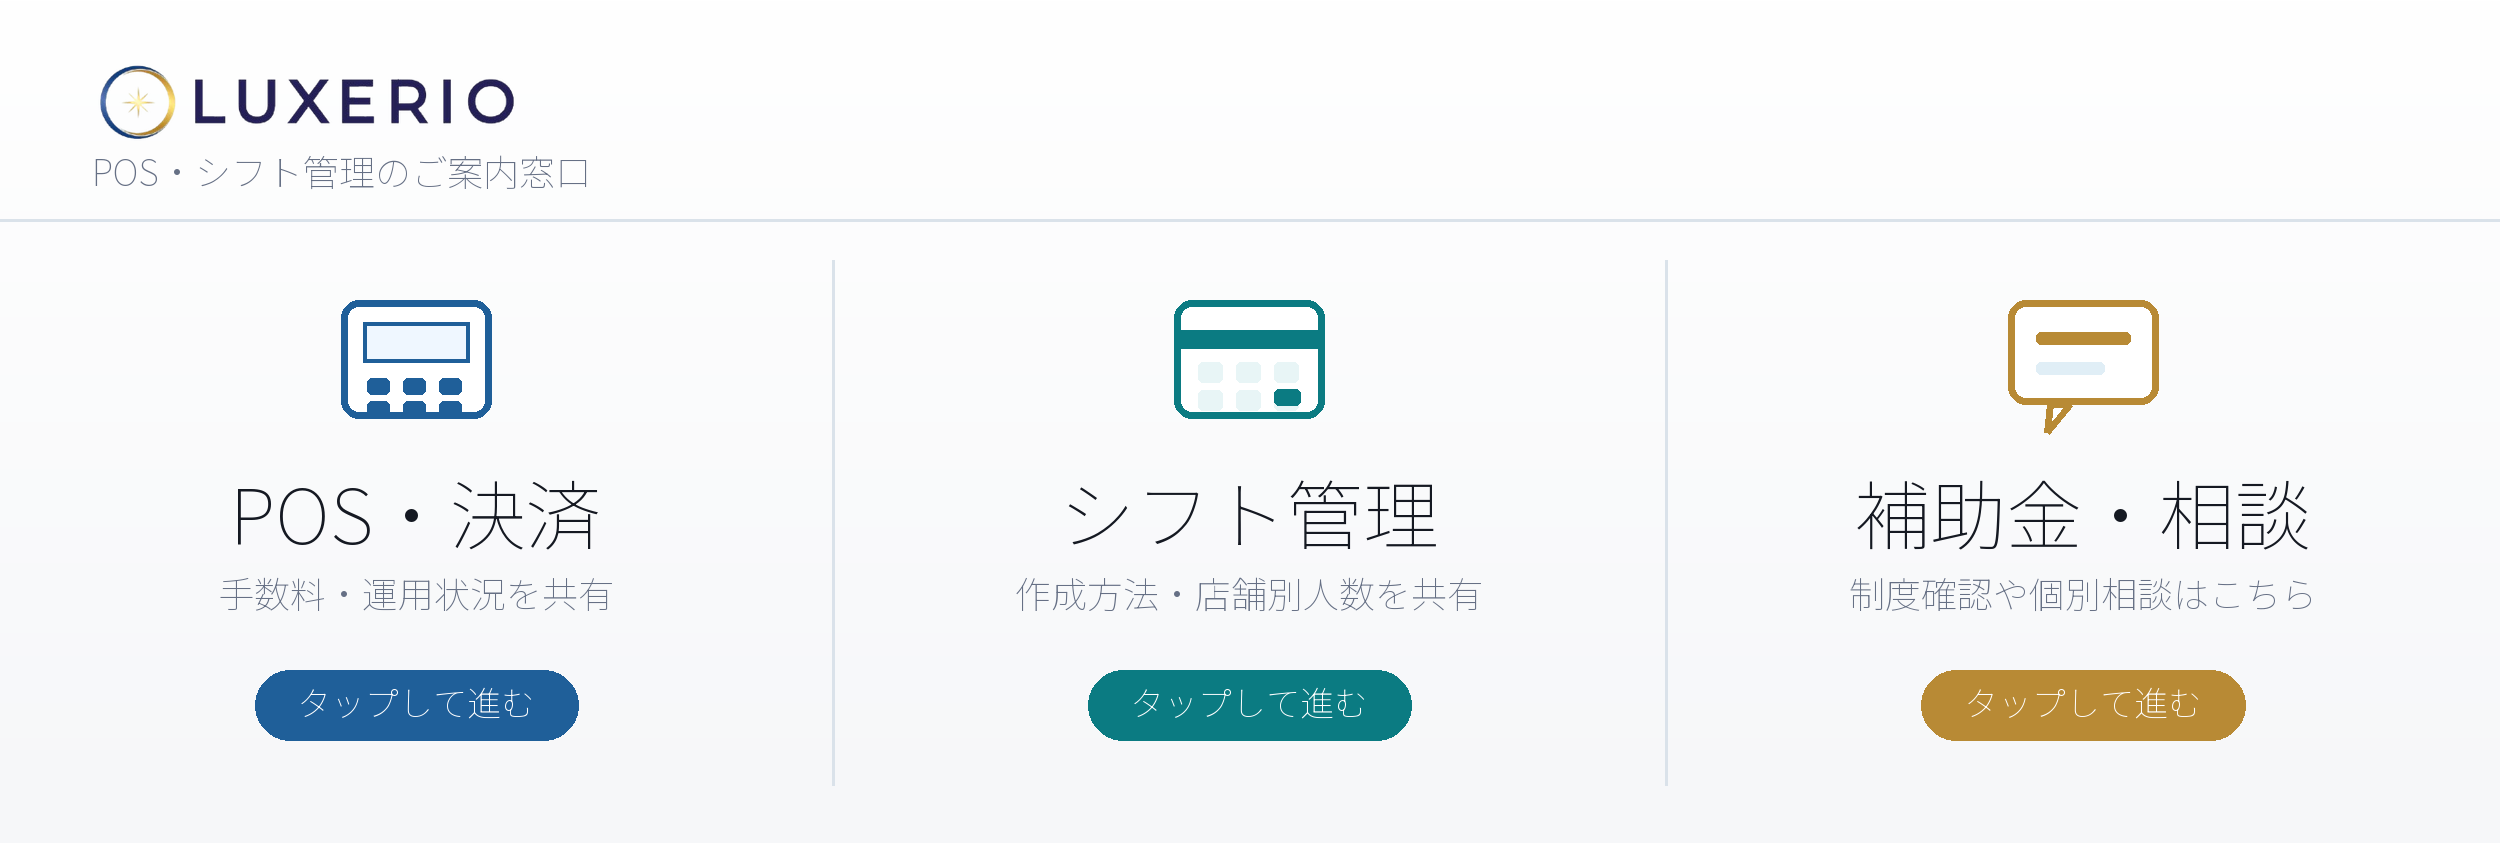
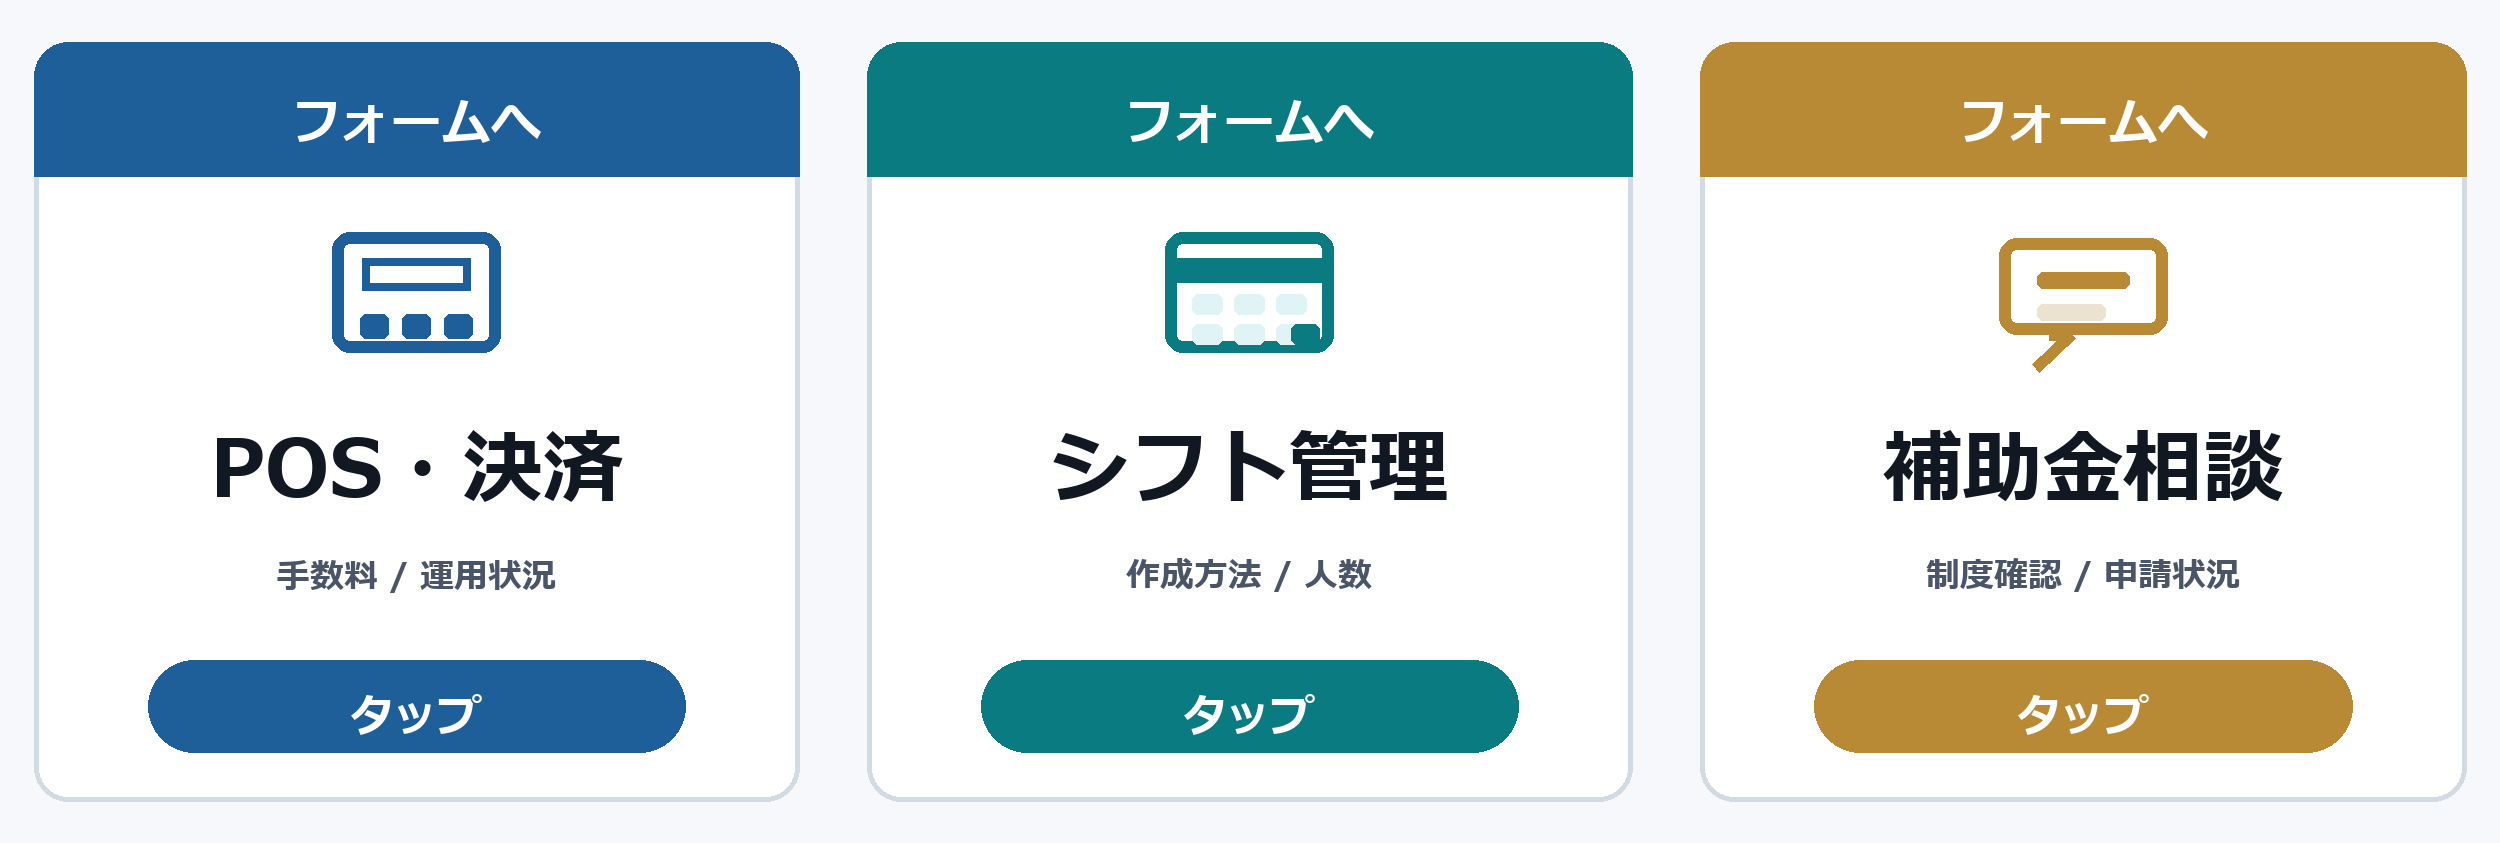
Add subsidy intake and improve rich menu design

diff --git a/subsidy.html b/subsidy.html
@@ -1,0 +1,172 @@
+<!doctype html>
+<html lang="ja">
+<head>
+  <meta charset="utf-8">
+  <meta name="viewport" content="width=device-width, initial-scale=1">
+  <title>補助金・助成金 事前確認 | Luxerio Support</title>
+  <meta name="description" content="Luxerioの補助金・助成金に関する事前確認フォームです。検討中の内容、申請状況、対象経費をお聞かせください。">
+  <meta name="robots" content="noindex,nofollow">
+  <meta property="og:type" content="website">
+  <meta property="og:title" content="補助金・助成金の事前確認 | Luxerio Support">
+  <meta property="og:description" content="検討中の内容、申請状況、対象経費をお聞かせください。">
+  <meta property="og:url" content="https://luxerio-support-intake-preview.pages.dev/subsidy.html">
+  <meta property="og:image" content="https://luxerio-support-intake-preview.pages.dev/line-luxerio-support-icon.png">
+  <meta name="twitter:card" content="summary_large_image">
+  <link rel="stylesheet" href="./styles.css">
+</head>
+<body data-survey-type="subsidy">
+  <main>
+    <header class="masthead compact">
+      <a class="brand" href="./index.html" aria-label="Luxerio">
+        <img src="./luxerio-logo-color-cropped.png" alt="Luxerio">
+      </a>
+      <div class="masthead-copy">
+        <p class="eyebrow">Subsidy Consultation</p>
+        <h1>補助金・助成金の事前確認</h1>
+        <p class="lead">対象になり得る制度や進め方を確認するため、現在の状況を分かる範囲でお伺いします。</p>
+      </div>
+    </header>
+
+    <form id="intakeForm">
+      <section>
+        <div class="section-head">
+          <p class="eyebrow">Basic</p>
+          <h2>ご連絡先</h2>
+        </div>
+        <div class="grid">
+          <div class="field">
+            <label class="required" for="company">会社名・屋号</label>
+            <input id="company" autocomplete="organization" placeholder="例: 株式会社〇〇 / 〇〇店" required>
+          </div>
+          <div class="field">
+            <label class="required" for="contact">ご担当者様名</label>
+            <input id="contact" autocomplete="name" placeholder="例: 山田 太郎" required>
+          </div>
+          <div class="field">
+            <label class="required" for="email">ご担当者様メールアドレス</label>
+            <input id="email" type="email" autocomplete="email" placeholder="例: [email redacted]" required>
+          </div>
+          <div class="field">
+            <label for="phone">お電話番号</label>
+            <input id="phone" data-summary type="tel" autocomplete="tel" placeholder="任意">
+          </div>
+          <div class="field">
+            <label class="required" for="storeCount">ご相談対象の店舗数</label>
+            <select id="storeCount" required></select>
+          </div>
+          <div class="field">
+            <label for="contactPreference">ご希望の連絡方法</label>
+            <select id="contactPreference" data-summary>
+              <option value="">指定なし</option>
+              <option>メール</option>
+              <option>LINE</option>
+              <option>電話</option>
+            </select>
+          </div>
+        </div>
+      </section>
+
+      <section>
+        <div class="section-head">
+          <p class="eyebrow">Project</p>
+          <h2>検討中の内容</h2>
+        </div>
+        <div class="grid">
+          <div class="field">
+            <label class="required" for="projectType">補助金を使いたい内容</label>
+            <select id="projectType" data-summary required>
+              <option value="">選択してください</option>
+              <option>POS・決済まわり</option>
+              <option>シフト管理・勤怠まわり</option>
+              <option>Web・予約・集客まわり</option>
+              <option>店舗設備・端末まわり</option>
+              <option>まだ決まっていない</option>
+            </select>
+          </div>
+          <div class="field">
+            <label for="budget">想定している費用感</label>
+            <select id="budget" data-summary>
+              <option value="">未定</option>
+              <option>50万円未満</option>
+              <option>50万円〜100万円</option>
+              <option>100万円〜300万円</option>
+              <option>300万円以上</option>
+            </select>
+          </div>
+          <div class="field">
+            <label for="applicationStatus">現在の申請状況</label>
+            <select id="applicationStatus" data-summary>
+              <option value="">未選択</option>
+              <option>まだ何もしていない</option>
+              <option>使える制度を調べている</option>
+              <option>申請準備中</option>
+              <option>すでに申請済み</option>
+              <option>過去に利用したことがある</option>
+            </select>
+          </div>
+          <div class="field">
+            <label for="desiredSupport">希望するサポート範囲</label>
+            <select id="desiredSupport" data-summary>
+              <option value="">未選択</option>
+              <option>対象制度を知りたい</option>
+              <option>申請できるか確認したい</option>
+              <option>必要書類や流れを知りたい</option>
+              <option>システム導入とあわせて相談したい</option>
+            </select>
+          </div>
+        </div>
+      </section>
+
+      <section>
+        <fieldset data-summary="subsidyNeeds" data-required-group="subsidyNeeds">
+          <legend class="required">知りたいこと・相談したいこと（複数選択可）</legend>
+          <div class="checks">
+            <label class="check"><input type="checkbox" name="subsidyNeeds" value="対象になり得る制度を知りたい">対象制度を知りたい</label>
+            <label class="check"><input type="checkbox" name="subsidyNeeds" value="POS・シフト管理とあわせて相談したい">システム導入と相談したい</label>
+            <label class="check"><input type="checkbox" name="subsidyNeeds" value="申請までの流れを知りたい">申請の流れを知りたい</label>
+            <label class="check"><input type="checkbox" name="subsidyNeeds" value="必要書類を知りたい">必要書類を知りたい</label>
+            <label class="check"><input type="checkbox" name="subsidyNeeds" value="申請期限を確認したい">申請期限を確認したい</label>
+            <label class="check"><input type="checkbox" name="subsidyNeeds" value="まず概要だけ知りたい">概要だけ知りたい</label>
+          </div>
+        </fieldset>
+      </section>
+
+      <section>
+        <div class="grid">
+          <div class="field">
+            <label for="businessType">業種・営業形態</label>
+            <input id="businessType" data-summary placeholder="任意 / 飲食店、美容、ナイト店舗、小売など">
+          </div>
+          <div class="field">
+            <label for="decisionTiming">確認したい時期</label>
+            <select id="decisionTiming" data-summary>
+              <option value="">指定なし</option>
+              <option>できるだけ早く概要を知りたい</option>
+              <option>1か月以内に方向性を決めたい</option>
+              <option>急ぎではないが情報がほしい</option>
+            </select>
+          </div>
+          <div class="field full">
+            <label for="notes">補足・ご要望</label>
+            <textarea id="notes" placeholder="例: 検討中のシステム、購入予定の機器、過去に使った補助金、相談前に共有したいこと"></textarea>
+          </div>
+        </div>
+      </section>
+
+      <div class="form-footer">
+        <p>送信内容はご案内・個別相談・今後のサービス改善のために利用します。補助金・助成金は制度内容や募集状況により対象可否が変わるため、採択や支給を保証するものではありません。</p>
+        <div class="actions">
+          <p class="status" id="status" aria-live="polite"></p>
+          <button id="submitButton" type="submit">この内容で送信する</button>
+        </div>
+        <div class="line-followup" id="lineFollowup" hidden>
+          <p>LINE上での確認をスムーズにするため、送信後に会社名・屋号をトークへ送ってください。</p>
+          <a id="lineFollowupLink" href="https://line.me/R/oaMessage/%40478eozzg/" target="_blank" rel="noopener">LINEで会社名を送る</a>
+        </div>
+      </div>
+    </form>
+  </main>
+
+  <script src="./survey.js"></script>
+</body>
+</html>

diff --git a/survey.js b/survey.js
@@ -1,5 +1,23 @@
 const surveyType = document.body.dataset.surveyType;
-const consultationValue = surveyType === "pos" ? "POSについて" : "シフト管理について";
+const surveyLabels = {
+  pos: {
+    consultation: "POSについて",
+    summary: "POS・決済事前ヒアリング",
+    line: "POS・決済"
+  },
+  shift: {
+    consultation: "シフト管理について",
+    summary: "シフト管理事前ヒアリング",
+    line: "シフト管理"
+  },
+  subsidy: {
+    consultation: "補助金について",
+    summary: "補助金・助成金事前確認",
+    line: "補助金・助成金"
+  }
+};
+const surveyLabel = surveyLabels[surveyType] || surveyLabels.pos;
+const consultationValue = surveyLabel.consultation;
 const storeCount = document.querySelector("#storeCount");
 const stores = document.querySelector("#stores");
 const form = document.querySelector("#intakeForm");
@@ -8,14 +26,17 @@ const submitButton = document.querySelector("#submitButton");
 const lineFollowup = document.querySelector("#lineFollowup");
 const lineFollowupLink = document.querySelector("#lineFollowupLink");
 
-for (let i = 1; i <= 20; i += 1) {
-  const option = document.createElement("option");
-  option.value = String(i);
-  option.textContent = `${i}店舗`;
-  storeCount.append(option);
+if (storeCount) {
+  for (let i = 1; i <= 20; i += 1) {
+    const option = document.createElement("option");
+    option.value = String(i);
+    option.textContent = `${i}店舗`;
+    storeCount.append(option);
+  }
 }
 
 function renderStores() {
+  if (!storeCount || !stores) return;
   const count = Number(storeCount.value || 1);
   stores.replaceChildren();
 
@@ -48,6 +69,10 @@ function checkedValues(name) {
 }
 
 function buildStoreSummary() {
+  if (!stores) {
+    return `ご相談対象の店舗数: ${storeCount?.value || "未入力"}店舗`;
+  }
+
   const names = [...document.querySelectorAll('input[name="storeName"]')];
   const staff = [...document.querySelectorAll('input[name="staff"]')];
   const cast = [...document.querySelectorAll('input[name="cast"]')];
@@ -77,7 +102,7 @@ function valueFor(element) {
 
 function buildSurveySummary() {
   const lines = [];
-  lines.push(`アンケート種別: ${surveyType === "pos" ? "POS・決済事前ヒアリング" : "シフト管理事前ヒアリング"}`);
+  lines.push(`アンケート種別: ${surveyLabel.summary}`);
 
   document.querySelectorAll("[data-summary]").forEach((element) => {
     if (element.matches('input[type="checkbox"]')) return;
@@ -97,12 +122,11 @@ function buildSurveySummary() {
 }
 
 function buildLineFollowupUrl(company) {
-  const typeLabel = surveyType === "pos" ? "POS・決済" : "シフト管理";
-  const message = `フォーム送信済みです。\n会社名・屋号: ${company}\n相談内容: ${typeLabel}`;
+  const message = `フォーム送信済みです。\n会社名・屋号: ${company}\n相談内容: ${surveyLabel.line}`;
   return `https://line.me/R/oaMessage/%40478eozzg/?${encodeURIComponent(message)}`;
 }
 
-storeCount.addEventListener("change", renderStores);
+storeCount?.addEventListener("change", renderStores);
 renderStores();
 
 form.addEventListener("submit", async (event) => {
@@ -126,7 +150,7 @@ form.addEventListener("submit", async (event) => {
     company,
     contact: document.querySelector("#contact").value.trim(),
     email: document.querySelector("#email").value.trim(),
-    storeCount: storeCount.value,
+    storeCount: storeCount?.value || "未入力",
     consultation: consultationValue,
     storeDetails: buildStoreSummary(),
     notes: buildSurveySummary()
@@ -156,7 +180,7 @@ form.addEventListener("submit", async (event) => {
       lineFollowup.hidden = false;
     }
     form.reset();
-    storeCount.value = "1";
+    if (storeCount) storeCount.value = "1";
     renderStores();
   } catch (error) {
     status.textContent = "送信できませんでした。時間をおいて再度お試しください。";

diff --git a/index.html b/index.html
@@ -3,11 +3,11 @@
 <head>
   <meta charset="utf-8">
   <meta name="viewport" content="width=device-width, initial-scale=1">
-  <title>POS・シフト管理 事前ヒアリング | Luxerio</title>
-  <meta name="description" content="LuxerioのPOS・決済、シフト管理に関する事前ヒアリングフォームです。現在の運用状況とご関心内容をお聞かせください。">
+  <title>POS・シフト管理・補助金 事前ヒアリング | Luxerio</title>
+  <meta name="description" content="LuxerioのPOS・決済、シフト管理、補助金に関する事前ヒアリングフォームです。現在の運用状況とご関心内容をお聞かせください。">
   <meta name="robots" content="noindex,nofollow">
   <meta property="og:type" content="website">
-  <meta property="og:title" content="POS・シフト管理の事前ヒアリング | Luxerio">
+  <meta property="og:title" content="POS・シフト管理・補助金の事前ヒアリング | Luxerio">
   <meta property="og:description" content="現在の運用状況とご関心内容をお聞かせください。">
   <meta property="og:url" content="https://luxerio-support-intake-preview.pages.dev/">
   <meta property="og:image" content="https://luxerio-support-intake-preview.pages.dev/line-luxerio-support-icon.png">
@@ -22,7 +22,7 @@
       </a>
       <div class="masthead-copy">
         <p class="eyebrow">Luxerio Support</p>
-        <h1>POS・シフト管理の事前ヒアリング</h1>
+        <h1>POS・シフト管理・補助金の事前ヒアリング</h1>
         <p class="lead">正式なご案内に向けて、現在の運用状況とご関心内容をお聞かせください。</p>
         <div class="meta-row" aria-label="入力目安">
           <span>入力目安 3分</span>
@@ -36,7 +36,7 @@
       <div class="section-head">
         <p class="eyebrow">Select</p>
         <h2 id="select-title">ご相談内容を選択してください</h2>
-        <p>POS・決済とシフト管理では確認内容が異なるため、専用フォームに分けています。</p>
+        <p>確認内容が異なるため、POS・決済、シフト管理、補助金で専用フォームに分けています。</p>
       </div>
 
       <div class="choice-grid">
@@ -51,6 +51,12 @@
           <strong>シフト管理の事前ヒアリング</strong>
           <span>現在の作成方法、希望回収、勤怠・給与連携、店舗別人数を確認します。</span>
           <b>シフト管理へ</b>
+        </a>
+        <a class="choice-card" href="./subsidy.html">
+          <span class="choice-kicker">Subsidy / Grant</span>
+          <strong>補助金・助成金の事前確認</strong>
+          <span>検討中の内容、申請状況、対象経費、相談したい制度を確認します。</span>
+          <b>補助金・助成金へ</b>
         </a>
       </div>
     </section>

diff --git a/styles.css b/styles.css
@@ -157,7 +157,7 @@ h2 {
 
 .choice-grid {
   display: grid;
-  grid-template-columns: repeat(2, minmax(0, 1fr));
+  grid-template-columns: repeat(3, minmax(0, 1fr));
   gap: 16px;
 }
 